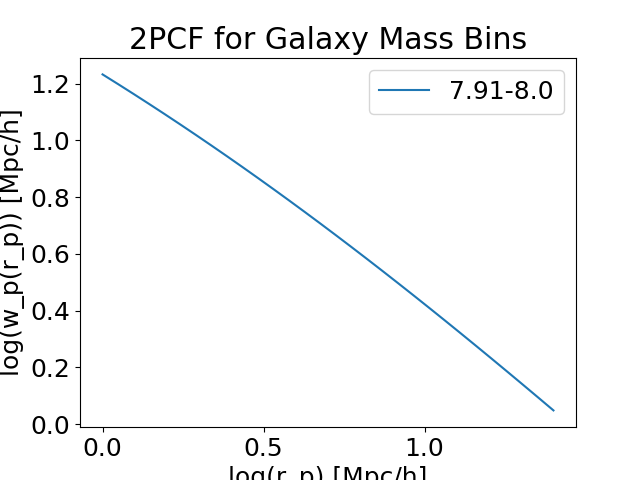
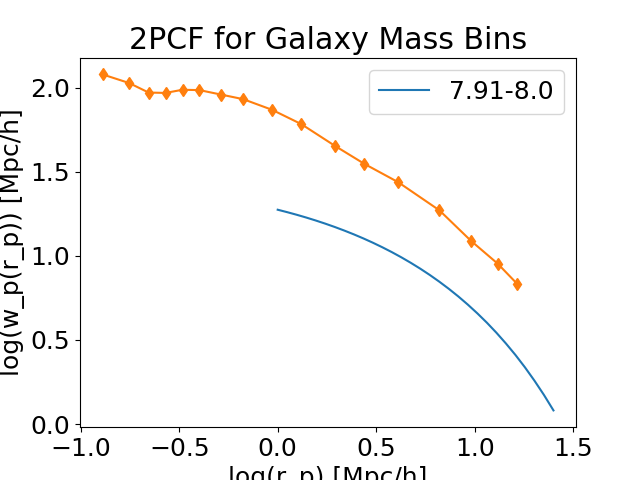
new plots

diff --git a/cc3.py b/cc3.py
@@ -4,18 +4,16 @@ Created on Sat Jan  4 19:55:07 2025
 
 @author: lewis
 """
+from pathlib import Path
 from sys import platform
 import matplotlib
 from matplotlib import pyplot as plt
 import numpy as np
 import h5py
-from scipy.interpolate import interp1d
 from colossus.cosmology import cosmology
-from colossus.lss import mass_function
 from colossus.lss import peaks
 from colossus.lss import bias
-from scipy.integrate import simpson as simps
-from cc2 import get_HMF, get_SMF
+from cc2 import get_HMF, get_SMF, wpr, D_z_white
 # plt.rcParams.update({'font.size': 18})
 
 # Planck 15 cosmology to match TNG50-1-Dark
@@ -53,12 +51,13 @@ def plot_histograms(halo_masses, galaxy_masses):
 
 def compute_2pcf(logRp, logR, correlation_function, bias_values, Dz):
     """Compute the 2-point correlation function (2PCF)."""
-    wp = []
-    for Rp in 10**logRp:
-        integral = np.trapz(correlation_function /
-                            np.sqrt(Rp**2 + 10**(2 * logR)), 10**logR)
-        wp.append(2 * integral)
-    wp = np.array(wp)
+    cosmo = cosmology.getCurrent()
+    params = {'flat': True, 'H0': 70., 'Om0': 0.30,
+              'Ob0': 0.044, 'sigma8': 0.80, 'ns': 1.00}
+    cosmo1 = cosmology.setCosmology('myCosmo', **params)
+
+    corr = cosmo1.correlationFunction(R, 0.)
+    wp = wpr(logRp, logR, corr)
     wp_projected = Dz**2 * np.mean(bias_values)**2 * wp
     return wp_projected
 
@@ -112,7 +111,11 @@ if __name__ == '__main__':
         bins.append((split_MstarCatalogue[i][0], split_MstarCatalogue[i][-1]))
 
     # bins = [(10.5, 11.0), (11.0, 11.5), (11.5, 12.0)]
-    Dz = cosmo.growthFactor(0)
+    # Dz = cosmo.growthFactor(0)
+    Dz = D_z_white(0.3, 0.)
+
+    for p in Path("plots").glob("2PCF_*.png"):
+        p.unlink()
 
     for i, (mass_min_unrounded, mass_max_unrounded) in enumerate(bins):
         mass_min = round(mass_min_unrounded, 2)
@@ -123,7 +126,7 @@ if __name__ == '__main__':
         # Compute bias
         try:
             M = 10.**MhaloCatalogue[mask]
-            nu = peaks.peakHeight(M, 0)
+            nu = peaks.peakHeight(M, 0.)
             halo_bias = bias.haloBiasFromNu(nu, model='sheth01')
 
             # Compute 2PCF
@@ -137,8 +140,29 @@ if __name__ == '__main__':
             plt.xlabel("log(r_p) [Mpc/h]")
             plt.ylabel("log(w_p(r_p)) [Mpc/h]")
             plt.title("2PCF for Galaxy Mass Bins")
+
+            # Load SDSS data
+            cluster_data = "data/DataClusteringSDSScentrals11.12.txt"
+            rpd, wpd = np.loadtxt(cluster_data,
+                                  unpack=True,
+                                  delimiter=None,
+                                  dtype=float)
+            plt.plot(np.log10(rpd), np.log10(wpd/rpd), marker="d")
             plt.legend()
             plt.savefig(f"plots/2PCF_{mass_min}-{mass_max}.png")
         except Exception as e:
             print(f"Error computing 2PCF for mass bin {
                   mass_min}-{mass_max}: {e}")
+
+    # print all bins
+    logRp = np.linspace(0, 1.4, 30)
+    plt.figure()
+    for i, (mass_min_unrounded, mass_max_unrounded) in enumerate(bins):
+        mass_min = round(mass_min_unrounded, 2)
+        mass_max = round(mass_max_unrounded, 2)
+        plt.plot(logRp, np.log10(wp_projected), label=f"{mass_min}-{mass_max}")
+    plt.xlabel("log(r_p) [Mpc/h]")
+    plt.ylabel("log(w_p(r_p)) [Mpc/h]")
+    plt.title("2PCF for Galaxy Mass Bins")
+    plt.legend()
+    plt.savefig("plots/2PCF_all_bins.png")

diff --git a/README.md b/README.md
@@ -11,3 +11,9 @@ function (2PCF) of certain halo mass bins
 6. Try with different HMF’s?
 7. Change scatter value used in some of the calculations using different models, find which
 values are optimal
+
+## Plots 
+![Halo Mass Histogram](./plots/halo_masses.png.png)
+![Galaxy Mass Histogram](./plots/galaxy_masses.png.png)
+
+
